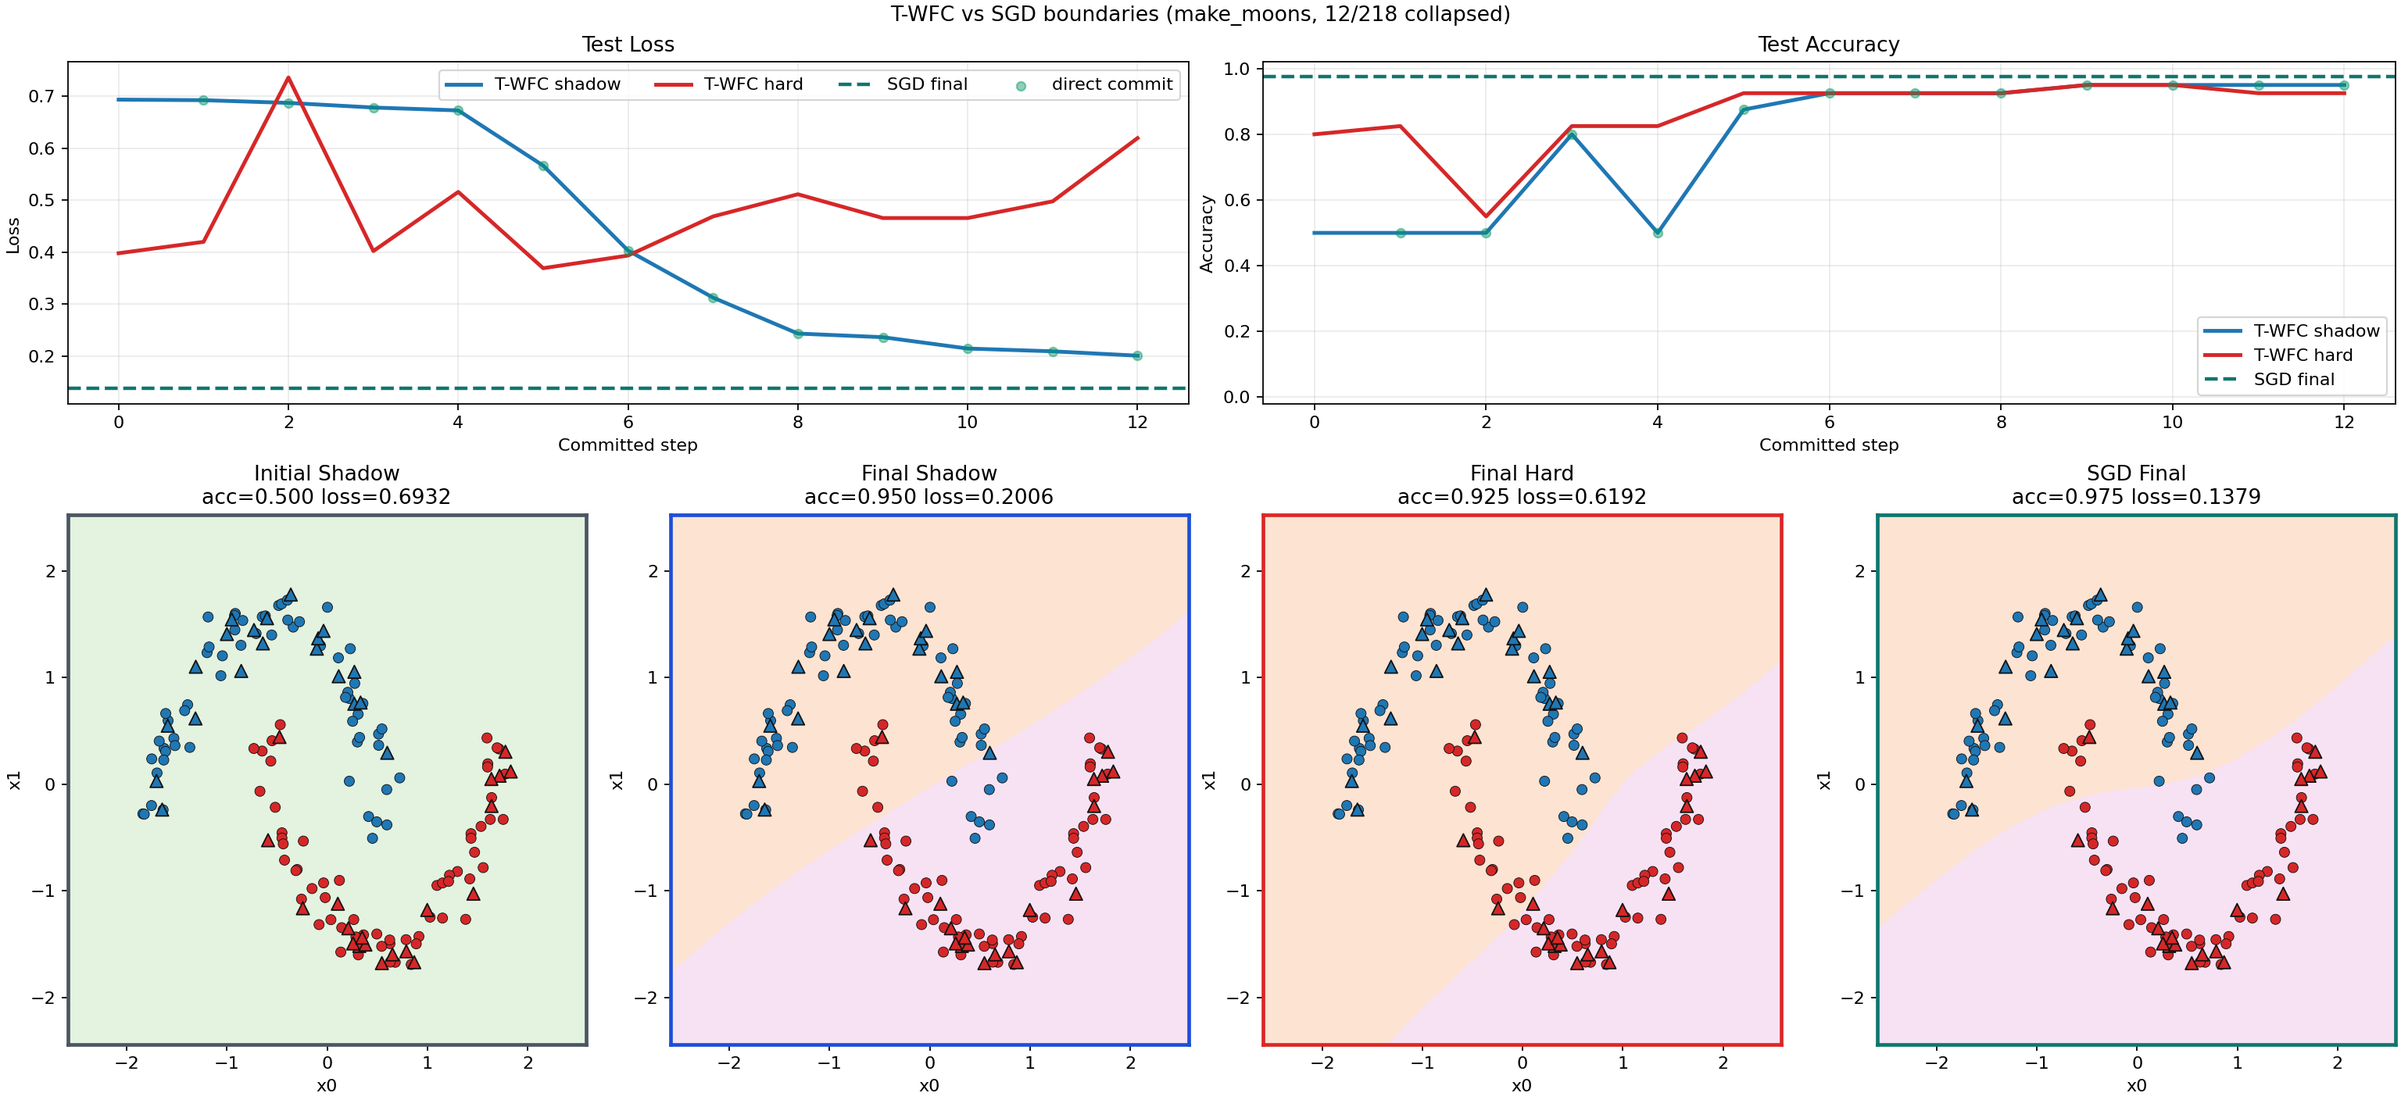
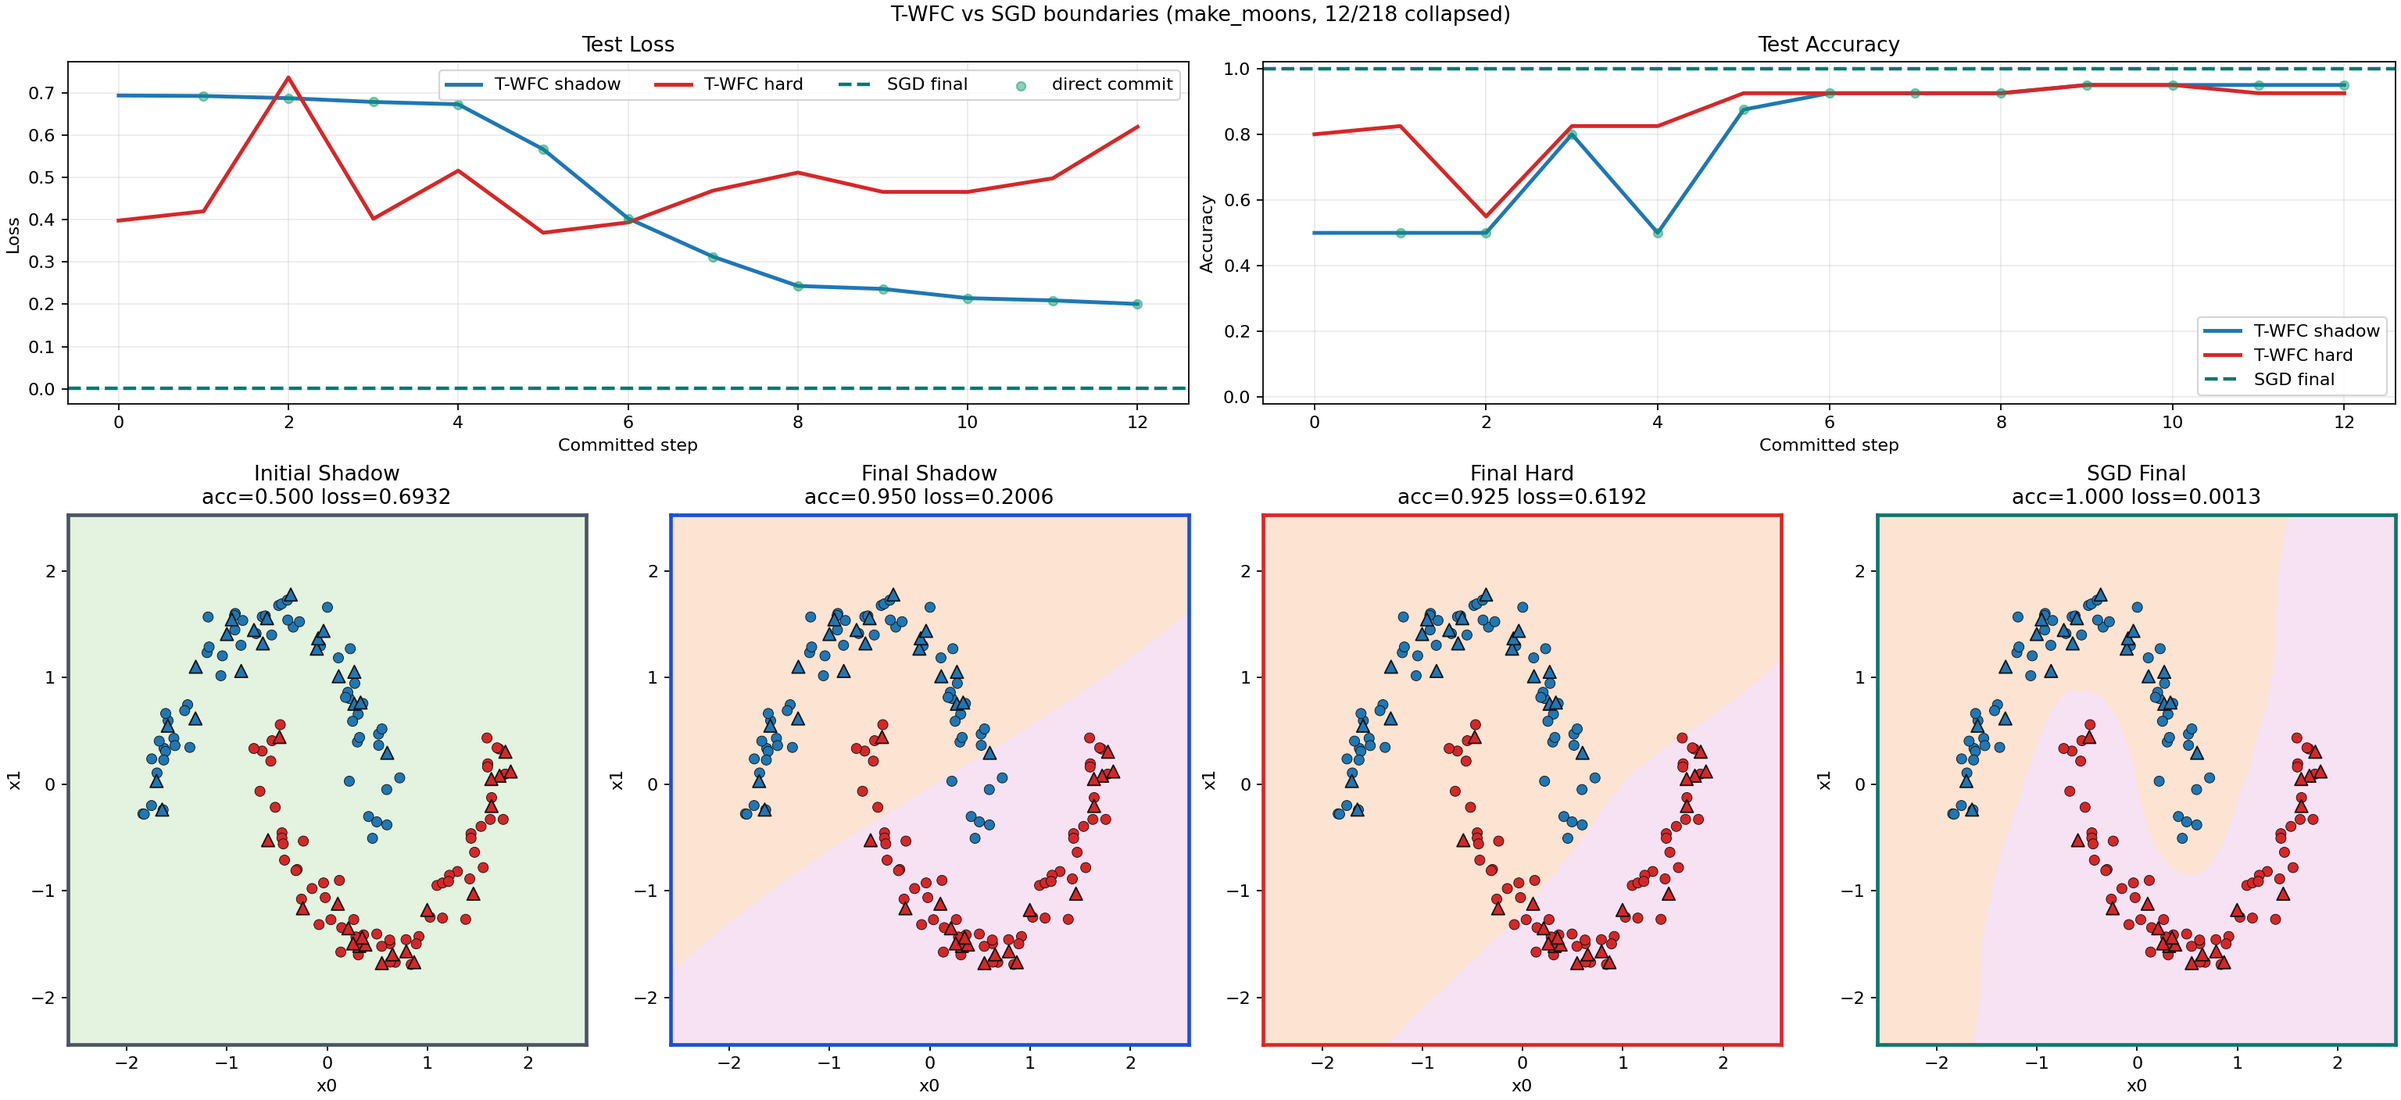
Add momentum to SGD baseline, fix comparison fairness, trim README
- SGD baseline now uses momentum (default 0.9) instead of vanilla SGD,
  so comparisons reflect a properly tuned optimizer rather than a
  deliberately weakened one.
- Comparison numbers updated: make_moons 0.925 vs 1.000 (was 0.975),
  spiral 0.367 vs 0.911 (was 0.422), iris unchanged at 0.556 vs 0.944.
- README comparison section renamed to "T-WFC vs SGD+Momentum" with
  explicit discrete-vs-continuous weight asymmetry disclosure.
- README trimmed per review feedback: removed meta section, condensed
  Current Status to 6 lines, reduced Quickstart to 3 commands.
- Regenerated all public comparison media under docs/media/.

diff --git a/src/t_wfc/baseline.py b/src/t_wfc/baseline.py
@@ -14,6 +14,7 @@ class SGDBaselineConfig:
     epochs: int = 240
     learning_rate: float = 0.08
     learning_rate_decay: float = 0.01
+    momentum: float = 0.9
     batch_size: int = 32
     weight_scale: float = 1.0
     seed: int = 7
@@ -38,11 +39,14 @@ def train_sgd_classifier(
         raise ValueError("learning_rate must be positive")
     if config.learning_rate_decay < 0.0:
         raise ValueError("learning_rate_decay must be non-negative")
+    if not 0.0 <= config.momentum < 1.0:
+        raise ValueError("momentum must be in [0.0, 1.0)")
     if config.batch_size == 0:
         raise ValueError("batch_size must be positive or -1 for full-batch mode")
 
     rng = np.random.default_rng(config.seed)
     weights = model.random_vector(rng, scale=config.weight_scale)
+    velocity = np.zeros_like(weights)
     history: list[EvaluationMetrics] = [_evaluate(model, weights, dataset)]
 
     train_size = dataset.x_train.shape[0]
@@ -59,7 +63,8 @@ def train_sgd_classifier(
                 dataset.x_train[batch_indices],
                 dataset.y_train[batch_indices],
             )
-            weights = weights - learning_rate * gradient
+            velocity = config.momentum * velocity - learning_rate * gradient
+            weights = weights + velocity
 
         history.append(_evaluate(model, weights, dataset))
 

diff --git a/src/t_wfc/cli.py b/src/t_wfc/cli.py
@@ -54,6 +54,7 @@ def build_parser() -> argparse.ArgumentParser:
     parser.add_argument("--sgd-epochs", type=int, default=240, help="Epoch count for the SGD baseline.")
     parser.add_argument("--sgd-learning-rate", type=float, default=0.08, help="Initial learning rate for the SGD baseline.")
     parser.add_argument("--sgd-learning-rate-decay", type=float, default=0.01, help="Per-epoch learning-rate decay for the SGD baseline.")
+    parser.add_argument("--sgd-momentum", type=float, default=0.9, help="Momentum coefficient for the SGD baseline. Use 0 for vanilla SGD.")
     parser.add_argument("--sgd-batch-size", type=int, default=32, help="Mini-batch size for the SGD baseline. Use -1 for full-batch training.")
     parser.add_argument("--sgd-weight-scale", type=float, default=1.0, help="Initialization scale for the SGD baseline.")
     parser.add_argument("--show-steps", type=int, default=8, help="How many collapse steps to print in the summary.")
@@ -165,6 +166,7 @@ def main() -> None:
                 epochs=args.sgd_epochs,
                 learning_rate=args.sgd_learning_rate,
                 learning_rate_decay=args.sgd_learning_rate_decay,
+                momentum=args.sgd_momentum,
                 batch_size=args.sgd_batch_size,
                 weight_scale=args.sgd_weight_scale,
                 seed=args.seed,

diff --git a/README.md b/README.md
@@ -15,12 +15,6 @@ Tensor Wave Function Collapse (`T-WFC`) is a research prototype that tests wheth
 
 All visuals below are real artifacts generated by the CLI and committed under `docs/media/` — not mock illustrations.
 
-## What This README Is Trying To Show
-
-- What a normal collapse path looks like when the search is stable.
-- What a contradiction-heavy path looks like when rollback and forced commits kick in.
-- Why the current visual stack is more informative than a single final-state plot.
-
 ## Clean Path vs Pressure Path
 
 <table>
@@ -103,12 +97,14 @@ Before the frontier-based forced-commit fallback existed, this stress setting co
 
 Where the GIFs show a single run, the gallery shows how much behavior varies across seeds. The generated Markdown report includes inline storyboard and metrics previews for the best and worst seeds. Full example: [docs/media/make_moons_seed_report.md](./docs/media/make_moons_seed_report.md).
 
-## T-WFC vs SGD
+## T-WFC vs SGD+Momentum
+
+T-WFC collapses each weight into one of five discrete values (`{-1, -0.5, 0, 0.5, 1}`), while SGD optimizes over continuous real-valued weights. The baseline uses SGD with momentum (0.9) and learning-rate decay — a standard optimizer, not a deliberately weakened one.
 
 <p align="center">
   <img src="./docs/media/make_moons_twfc_vs_sgd.gif" alt="T-WFC vs SGD on make_moons" width="950">
 </p>
-<p align="center"><sub>T-WFC collapse progression alongside the SGD baseline on <code>make_moons</code>.</sub></p>
+<p align="center"><sub>T-WFC collapse progression alongside the SGD+momentum baseline on <code>make_moons</code>.</sub></p>
 
 <table>
   <tr>
@@ -121,12 +117,12 @@ Where the GIFs show a single run, the gallery shows how much behavior varies acr
   </tr>
   <tr>
     <td valign="top">
-      <strong>Presentation-friendly case: make_moons</strong><br>
-      T-WFC hard weights reach <code>0.925</code> test accuracy while SGD reaches <code>0.975</code>. This is still the most eye-catching comparison because the gap stays relatively small and the collapse process is easy to read.
+      <strong>Closest case: make_moons</strong><br>
+      T-WFC hard weights (5 discrete values) reach <code>0.925</code> test accuracy while SGD+momentum (continuous weights) reaches <code>1.000</code>.
     </td>
     <td valign="top">
       <strong>Honest scaling case: spiral</strong><br>
-      The deeper model now moves thanks to symmetry-breaking jitter, but the GIF also makes the remaining quality gap obvious. T-WFC hard test accuracy reaches <code>0.367</code> while SGD reaches <code>0.422</code>.
+      The gap is large. T-WFC hard test accuracy reaches <code>0.367</code> while SGD+momentum reaches <code>0.911</code>. The discrete constraint and single-weight collapse strategy do not yet scale to this complexity.
     </td>
   </tr>
 </table>
@@ -134,47 +130,28 @@ Where the GIFs show a single run, the gallery shows how much behavior varies acr
 <p align="center">
   <img src="./docs/media/iris_twfc_vs_sgd_metrics.png" alt="T-WFC vs SGD metrics on iris" width="920">
 </p>
-<p align="center"><sub><code>iris</code> is the clean metric-gap example: T-WFC shadow test accuracy reaches <code>0.750</code>, hard test accuracy reaches <code>0.556</code>, and SGD reaches <code>0.944</code>.</sub></p>
+<p align="center"><sub><code>iris</code>: T-WFC shadow test accuracy <code>0.750</code>, hard test accuracy <code>0.556</code>, SGD+momentum <code>0.944</code>.</sub></p>
 
-The `make_moons` GIF is the quickest demo of T-WFC doing something interesting. `spiral` and `iris` show the current scaling limits against SGD.
+`make_moons` is where T-WFC looks most promising. `spiral` and `iris` show the honest gap against a properly tuned continuous-weight optimizer.
 
 ## Current Status
 
-- `make_moons`, `spiral`, and vendored `iris.csv` are supported.
-- The model path now supports both the original single-hidden-layer toy MLP and deeper configurations such as `2-24-24-3` or `4-16-16-3`.
-- Multi-layer runs now apply a small symmetry-breaking initial jitter by default so that single-weight observation does not get stuck in a flat, zero-signal state.
-- Multi-layer runs now also resolve to a sharper default observation temperature unless the user sets one explicitly, which keeps deeper-model posteriors from staying as flat as the original single-layer default.
-- The trainer already supports observation, single-weight collapse, propagation, rollback-aware backtracking, and hybrid-scored forced commits.
-- `make_moons` runs can save:
-  - an overview plot with `initial shadow / final shadow / final hard`
-  - a progress timeline plot across committed collapse steps
-  - a per-snapshot frame sequence for step-by-step inspection
-  - a combined storyboard with metrics, selected snapshots, and event highlights
-  - an animated GIF built from committed snapshots with event badges and cumulative counters
-  - rollback bursts, alt-choice retries, and forced commits are rendered as separate signals instead of one blended event tag
-  - forbidden-value bans and frontier pressure are also rendered as separate overlay signals
-  - ban overlays now identify which weights accumulated bans, not only how many bans existed
-- Any dataset run can save a metrics timeline plot for shadow/hard loss and accuracy.
-- Multi-seed runs can save a comparison gallery, per-seed drill-down artifacts, and a Markdown report with best/worst seed highlights, inline preview images, peak-ban summaries, and direct links to each seed's metrics/storyboard/GIF outputs.
-- The CLI can now run a `numpy` SGD baseline on the same MLP so T-WFC runs can be compared against a conventional optimizer path.
-- 2D runs can now save a `T-WFC vs SGD` boundary board and comparison GIF, while any dataset can save a `T-WFC vs SGD` metrics board.
-- The package now exposes an installable `t-wfc` CLI via `pyproject.toml`.
+- Datasets: `make_moons`, `spiral`, and vendored `iris.csv`.
+- Models: single-hidden-layer toy MLP and deeper configurations (e.g. `2-24-24-3`).
+- Training loop: observation, single-weight collapse, propagation, rollback-aware backtracking, and forced-commit fallback.
+- Visualization: storyboard, GIF, metrics timeline, multi-seed gallery and report, `T-WFC vs SGD` comparison boards.
+- The package exposes an installable `t-wfc` CLI via `pyproject.toml`.
+- See [CHANGELOG.md](./CHANGELOG.md) for full feature history.
 
 ## Quickstart
 
 ```bash
 python3 -m pip install -e .
-t-wfc --help
-PYTHONPATH=src python3 -m unittest discover -s tests
 t-wfc --dataset make_moons --max-steps 8 --show-steps 6
-t-wfc --dataset spiral --samples 240 --hidden-layers 24,24 --max-steps 18 --show-steps 6
-t-wfc --dataset iris --hidden-layers 16,16 --max-steps 18 --compare-sgd --sgd-epochs 160 --sgd-batch-size 24 --show-steps 6
-t-wfc --dataset make_moons --samples 160 --hidden-layers 12,12 --max-steps 12 --compare-sgd --sgd-epochs 140 --sgd-batch-size 24 --save-baseline-metrics-plot artifacts/make_moons/plots/twfc_vs_sgd_metrics.png --save-baseline-comparison-plot artifacts/make_moons/plots/twfc_vs_sgd_boundaries.png --save-baseline-comparison-gif artifacts/make_moons/animations/twfc_vs_sgd.gif --max-frame-count 6 --gif-frame-duration-ms 320
-t-wfc --dataset make_moons --max-steps 8 --show-steps 2 --save-plot artifacts/make_moons/plots/overview.png --save-progress-plot artifacts/make_moons/plots/progress.png --progress-panels 5 --save-metrics-plot artifacts/make_moons/plots/metrics.png --save-frames-dir artifacts/make_moons/frames/steps --max-frame-count 6
-t-wfc --dataset make_moons --max-steps 8 --show-steps 2 --save-storyboard artifacts/make_moons/plots/storyboard.png --storyboard-panels 5 --save-gif artifacts/make_moons/animations/steps.gif --max-frame-count 6 --gif-frame-duration-ms 350
-t-wfc --dataset make_moons --max-steps 4 --backtrack-tolerance -10 --rollback-depth 1 --max-frontier-rollbacks 1 --max-attempt-multiplier 12 --show-steps 4 --save-metrics-plot artifacts/make_moons/plots/stress_metrics.png --save-storyboard artifacts/make_moons/plots/stress_storyboard.png --storyboard-panels 5 --save-gif artifacts/make_moons/animations/stress.gif --max-frame-count 5 --gif-frame-duration-ms 420
-t-wfc --dataset make_moons --max-steps 8 --seed-list 7,11,17,23,31 --save-seed-gallery artifacts/make_moons/plots/seed_gallery.png --gallery-columns 3 --save-seed-artifacts-dir artifacts/make_moons/reports/seed_runs --save-md-report artifacts/make_moons/reports/seed_report.md --report-title "T-WFC make_moons Seed Sweep"
+t-wfc --dataset iris --hidden-layers 16,16 --max-steps 18 --compare-sgd --show-steps 6
 ```
+
+Run `t-wfc --help` for visualization, seed-sweep, and stress-test options. See [docs/VERIFICATION.en.md](./docs/VERIFICATION.en.md) for full recipe examples.
 
 ## Documentation
 

diff --git a/docs/daily_logs/2026-03-17/work_log.md b/docs/daily_logs/2026-03-17/work_log.md
@@ -1,0 +1,77 @@
+# Work Log - 2026-03-17
+
+## Goal
+
+- Address external review feedback on README structure (remove meta section, trim Current Status, reduce Quickstart commands).
+- Audit the fairness of T-WFC vs SGD comparisons: same conditions, proper baseline tuning, asymmetry disclosure.
+- Fix the SGD baseline to use momentum and re-tune comparison settings so the baseline represents a properly configured optimizer.
+- Add baseline comparison fairness guidelines to CLAUDE.md and AGENTS.md for future work.
+
+## Completed Work
+
+- Trimmed `README.md` and `README.ko.md`.
+  - removed the "What This README Is Trying To Show" / "이 README에서 보여주려는 것" section — the section titles already convey the same information
+  - condensed "Current Status" from 15+ nested bullets to 6 lines with a CHANGELOG link
+  - reduced Quickstart from 8 command blocks to 3 (install + 2 basic runs) plus `--help` and docs pointers
+- Audited the SGD baseline fairness.
+  - discovered that the SGD baseline was using vanilla SGD (no momentum) while being presented as "SGD baseline" — this significantly understated SGD's true capability
+  - ran hyperparameter sweeps on all three datasets (make_moons, spiral, iris) across epochs, learning rates, and momentum values
+  - key finding: spiral vanilla SGD reached 0.422, but SGD+momentum(0.9) reached 0.911 — the old comparison was deeply misleading
+  - make_moons: vanilla 0.975 → momentum 1.000; iris: unchanged at 0.944
+- Updated `src/t_wfc/baseline.py`.
+  - added `momentum` parameter to `SGDBaselineConfig` (default 0.9)
+  - added velocity tracking and momentum update in `train_sgd_classifier`
+  - added validation for momentum range [0.0, 1.0)
+- Updated `src/t_wfc/cli.py`.
+  - added `--sgd-momentum` CLI option (default 0.9)
+  - wired it into `SGDBaselineConfig` construction
+- Updated `README.md` and `README.ko.md` comparison sections.
+  - renamed section from "T-WFC vs SGD" to "T-WFC vs SGD+Momentum"
+  - added opening paragraph explaining the discrete-vs-continuous weight asymmetry
+  - updated all comparison numbers: make_moons 0.925 vs 1.000, spiral 0.367 vs 0.911, iris 0.556 vs 0.944
+  - changed caption tone from "presentation-friendly" to "closest case"
+- Regenerated public comparison media under `docs/media/`.
+  - refreshed `make_moons_twfc_vs_sgd.gif` and `make_moons_twfc_vs_sgd_boundaries.png` (SGD+momentum, epochs=200)
+  - refreshed `spiral_twfc_vs_sgd.gif` (SGD+momentum, epochs=400)
+  - refreshed `iris_twfc_vs_sgd_metrics.png` (SGD+momentum, epochs=200)
+- Added baseline comparison fairness guidelines to `CLAUDE.md` and `AGENTS.md`.
+  - new section 6.6 "Baseline 비교 공정성 규칙" covering: equal conditions, asymmetry disclosure, verification perspective, test/comparison function review
+  - also fixed a truncated sentence in the existing 6.5 section of both files
+  - renumbered 6.6 → 6.7 for "현재 단계에서 피해야 할 것"
+- Updated `HANDOFF.md`.
+  - updated comparison runbook commands with new epoch counts
+  - recorded the momentum addition and README trimming in Current State
+- Updated `CHANGELOG.md` with a 2026-03-17 entry.
+
+## Technical Decisions
+
+- Chose momentum=0.9 as the default because it is the most standard setting and dramatically improves SGD convergence on spiral without requiring Adam complexity.
+- Did not add Adam — momentum SGD is a fair, well-understood baseline. Adam could be added later if needed.
+- Kept the same default learning rate (0.08) and decay (0.01) since momentum=0.9 works well with these on all three datasets.
+- Updated comparison epoch counts to ensure SGD convergence:
+  - make_moons: 140 → 200 (already converged at 140 with momentum, but 200 gives margin)
+  - spiral: 220 → 400 (needed more epochs to converge with momentum on a harder dataset)
+  - iris: 160 → 200 (already at ceiling accuracy regardless)
+- The README now explicitly states that T-WFC uses 5 discrete values while SGD uses continuous weights — this is the most important asymmetry and was previously missing.
+
+## Verification
+
+- `python3 -m py_compile src/t_wfc/*.py tests/test_smoke.py`
+  - Result: passed
+- `PYTHONPATH=src python3 -m unittest discover -s tests`
+  - Result: passed (Ran 26 tests in 22.157s)
+- SGD momentum sweep (seed=7, all three datasets)
+  - make_moons: momentum SGD converges to 1.000 test acc across all tested lr/epochs combinations
+  - iris: 0.944 test acc across all combinations (saturated)
+  - spiral: best momentum SGD reaches 0.911 (epochs=400, lr=0.08, mom=0.9) vs old vanilla 0.422
+- CLI comparison runs verified:
+  - make_moons: hard 0.925 vs SGD+mom 1.000 ✓
+  - spiral: hard 0.367 vs SGD+mom 0.911 ✓
+  - iris: hard 0.556, shadow 0.750 vs SGD+mom 0.944 ✓
+- All 12 docs/media/ files referenced by README exist and are non-empty.
+
+## Next Steps
+
+- Consider whether the spiral comparison merits a different experimental approach (more collapse steps, wider domain, etc.) now that the honest gap is much larger.
+- Continue tuning T-WFC behavior on deeper models — the gap against a proper SGD baseline is now honestly visible.
+- The new fairness guidelines in CLAUDE.md/AGENTS.md should be applied retroactively to any future baseline additions.

diff --git a/CHANGELOG.md b/CHANGELOG.md
@@ -2,6 +2,7 @@
 
 | Date | Change | Details |
 |------|--------|---------|
+| 2026-03-17 | Added momentum to SGD baseline, re-tuned comparisons for fairness, trimmed README | [work_log.md](./docs/daily_logs/2026-03-17/work_log.md) |
 | 2026-03-16 | Re-verified README comparison claims and refreshed the checked-in public comparison media | [work_log.md](./docs/daily_logs/2026-03-16/work_log.md) |
 | 2026-03-16 | Refreshed the public README files and sample seed report for inline highlight previews | [work_log.md](./docs/daily_logs/2026-03-16/work_log.md) |
 | 2026-03-16 | Embedded inline best/worst preview images inside seed Markdown reports | [work_log.md](./docs/daily_logs/2026-03-16/work_log.md) |
